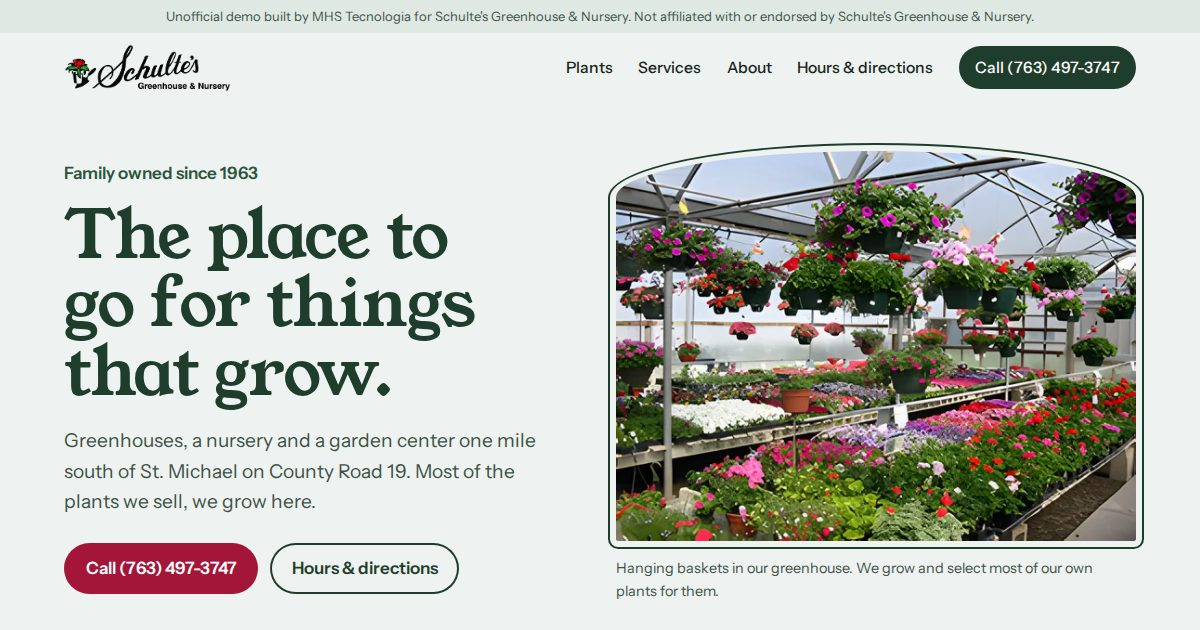
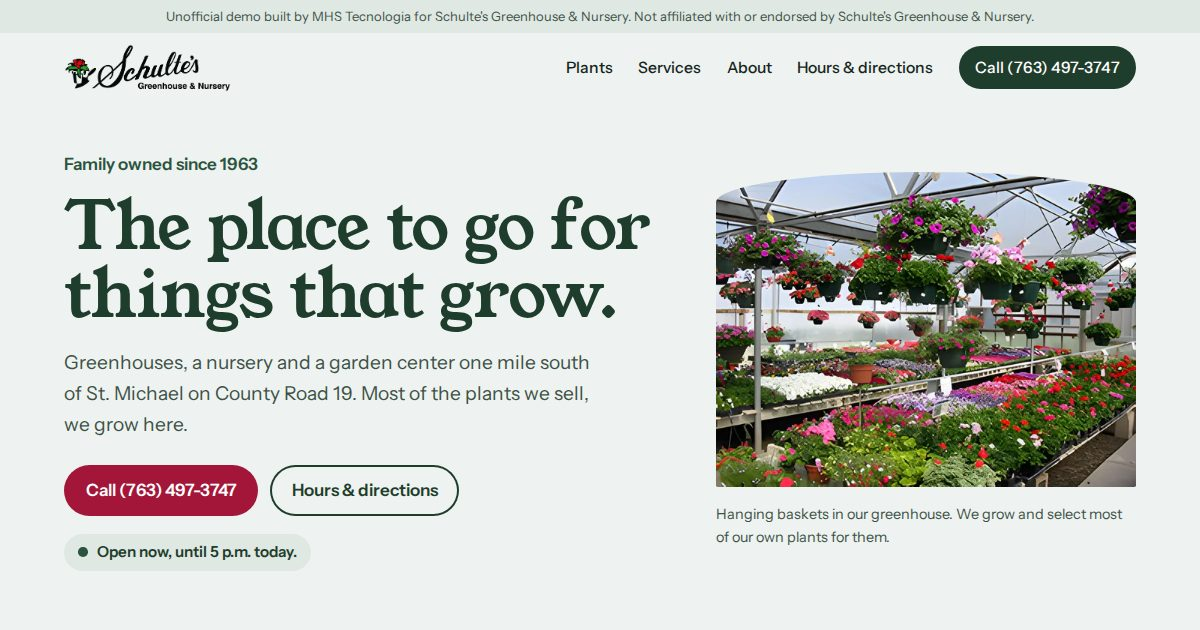
Previews: 135 ativos

diff --git a/schultes-greenhouse-nursery-st-michael-mn/index.html b/schultes-greenhouse-nursery-st-michael-mn/index.html
@@ -10,7 +10,7 @@
 <link rel="icon" type="image/png" href="favicon.png">
 <link rel="preload" as="font" type="font/woff2" href="fonts/youngserif.woff2" crossorigin>
 <link rel="preload" as="image" href="img/greenhouse-baskets.webp" imagesrcset="img/greenhouse-baskets-m.webp 560w" imagesizes="calc(100vw - 32px)" media="(max-width: 759px)" fetchpriority="high">
-<link rel="preload" as="image" href="img/greenhouse-baskets.webp" imagesrcset="img/greenhouse-baskets.webp 560w" imagesizes="520px" media="(min-width: 760px)" fetchpriority="high">
+<link rel="preload" as="image" href="img/greenhouse-baskets.webp" imagesrcset="img/greenhouse-baskets.webp 560w" imagesizes="420px" media="(min-width: 760px)" fetchpriority="high">
 <style>@font-face{font-family:"Young Serif";font-weight:400;font-display:swap;src:url(fonts/youngserif.woff2) format("woff2")}
 @font-face{font-family:"Instrument Sans";font-weight:400 700;font-stretch:75% 100%;font-display:swap;src:url(fonts/instrumentsans.woff2) format("woff2")}
 /* Frosted greenhouse glazing, the spruce green of their script logo, the rose in its pot, and sedum yellow for "today". */
@@ -58,11 +58,14 @@ h3{font-size:1.3rem}
 
 /* hero: the hoop-house arch around their greenhouse */
 .hero{padding:clamp(1.5rem,4vw,3.5rem) 0 clamp(2.5rem,5vw,4.5rem)}
-.hero-in{max-width:var(--max);margin:0 auto;padding:0 var(--pad);display:grid;grid-template-columns:1fr 520px;gap:clamp(2rem,5vw,4.5rem);align-items:center}
+.hero-in{max-width:var(--max);margin:0 auto;padding:0 var(--pad);display:grid;grid-template-columns:1fr 420px;gap:clamp(2rem,5vw,4.5rem);align-items:center}
 .since{color:var(--spruce-2);font-weight:600;margin-bottom:.9rem}
 .hero h1{font-size:clamp(2.5rem,5.6vw,4.6rem);line-height:1.02;letter-spacing:-.015em;color:var(--spruce)}
 .lede{font-size:clamp(1.08rem,1.6vw,1.25rem);color:var(--soft);margin-top:1.1rem;max-width:34rem}
-.hoop img,.ph-head img{border-radius:999px 999px .5rem .5rem/ 46% 46% .5rem .5rem;outline:2px solid var(--spruce);outline-offset:6px;width:100%}
+.hoop img,.ph-head img{border-radius:999px 999px .5rem .5rem/ 46% 46% .5rem .5rem;width:100%}
+.chip{display:inline-flex;align-items:center;gap:.55rem;margin-top:1.1rem;padding:.4rem .9rem;border-radius:2rem;background:var(--mist);color:var(--spruce);font-weight:600;font-size:.95rem}
+.chip::before{content:"";width:.6rem;height:.6rem;border-radius:50%;background:var(--spruce-2)}
+.chip[hidden]{display:none}
 .hoop figcaption{font-size:.9rem;color:var(--soft);margin-top:1rem;max-width:30rem}
 
 /* the year: their seasonal hours as a calendar */
@@ -70,18 +73,18 @@ h3{font-size:1.3rem}
 .year-sec h2{color:#fff}
 .year-grid{display:grid;grid-template-columns:minmax(0,.85fr) minmax(0,1.15fr);grid-template-areas:"intro table" "seas table";column-gap:clamp(2rem,5vw,4.5rem);align-items:start}
 .year-intro{grid-area:intro}.year{grid-area:table}.year-grid>.seasons{grid-area:seas}
-.year-intro>p{margin-top:1rem;max-width:30rem;color:#cfdcd4}
+.year-intro>p{margin-top:1rem;max-width:30rem;color:#cfdcd4;font-size:1.0625rem}
 .year-sec .btn{background:var(--sedum);color:var(--ink)}
 .year-sec .btn:hover{background:#f0d35d}
 .seasons{display:grid;grid-template-columns:1fr 1fr;gap:1.25rem 1.75rem;margin-top:2rem}
 .seasons dt{font-family:"Young Serif",Georgia,serif;font-size:1.2rem;color:#fff}
-.seasons dd{font-size:.95rem;color:#cfdcd4;margin-top:.25rem}
+.seasons dd{font-size:1rem;color:#cfdcd4;margin-top:.25rem}
 .status{font-family:"Young Serif",Georgia,serif;font-size:clamp(1.25rem,2vw,1.55rem);color:#fff;display:flex;gap:.65rem;align-items:baseline;margin-bottom:1.1rem}
 .status::before{content:"";flex:none;width:.7rem;height:.7rem;border-radius:50%;background:var(--sedum);transform:translateY(-.1rem)}
 .hours{width:100%;border-collapse:separate;border-spacing:4px;table-layout:fixed;font-variant-numeric:tabular-nums}
-.hours thead th{font-weight:600;font-size:.85rem;color:#cfdcd4;padding:.2rem 0;text-align:center}
+.hours thead th{font-weight:600;font-size:.95rem;color:#cfdcd4;padding:.2rem 0;text-align:center}
 .hours abbr{text-decoration:none}
-.hours tbody th{text-align:left;font-weight:500;font-size:.92rem;line-height:1.2;padding:0 .5rem 0 0;width:11rem;color:#e8f0eb}
+.hours tbody th{text-align:left;font-weight:500;font-size:.95rem;line-height:1.2;padding:0 .5rem 0 0;width:11rem;color:#e8f0eb}
 .hours thead td{width:11rem}
 .hours td{height:2.6rem;border-radius:.3rem;text-align:center;font-size:.85rem;font-weight:600}
 .hours td.on{background:#d8e6dd;color:var(--spruce)}
@@ -90,7 +93,7 @@ h3{font-size:1.3rem}
 .hours tr.now th{color:var(--sedum);font-weight:700}
 .hours tr.now td.on{background:#fff}
 .hours tr.now td.today{background:var(--sedum);color:var(--ink);box-shadow:0 0 0 2px #fff}
-.fine{font-size:.85rem;color:#b9cbc0;margin-top:.9rem}
+.fine{font-size:.95rem;color:#b9cbc0;margin-top:.9rem}
 @media (prefers-reduced-motion:no-preference){
   .hours tr.now td.on{animation:grow .5s cubic-bezier(.2,.7,.3,1) both;animation-delay:calc(var(--i) * 70ms + .2s)}
   @keyframes grow{from{transform:scaleY(.2);opacity:0}to{transform:none;opacity:1}}
@@ -185,10 +188,9 @@ h3{font-size:1.3rem}
   .lede{margin-top:.8rem}
   .ctas{margin-top:1.2rem}
   .ctas .btn{flex:1 1 auto}
-  .hoop img,.ph-head img{outline-offset:4px}
   .seasons{grid-template-columns:1fr}
   .hours{border-spacing:3px}
-  .hours tbody th,.hours thead td{width:6.6rem;font-size:.82rem}
+  .hours tbody th,.hours thead td{width:6.8rem;font-size:.95rem}
   .hours td{font-size:.74rem;height:2.4rem}
   .tagged{grid-template-columns:1fr}
   .tagged>img{height:17rem}
@@ -231,6 +233,7 @@ h3{font-size:1.3rem}
         <a class="btn" href="tel:+17634973747">Call (763) 497-3747</a>
         <a class="btn ghost" href="visit.html">Hours &amp; directions</a>
       </div>
+      <p class="chip" data-status hidden></p>
     </div>
     <figure class="hoop">
       <picture>
@@ -249,7 +252,7 @@ h3{font-size:1.3rem}
       <p>We close for January and February and open again in March. From late April through September we're open seven days a week.</p>
     </div>
     <div class="year">
-  <p class="status" id="status" aria-live="polite">Hours change with the season. Find this month below.</p>
+  <p class="status" data-status>Hours change with the season. Find this month below.</p>
   <table class="hours">
     <caption class="sr">Hours of operation by season, Monday to Sunday</caption>
     <thead><tr><td></td><th scope="col"><abbr title="Monday">Mon</abbr></th><th scope="col"><abbr title="Tuesday">Tue</abbr></th><th scope="col"><abbr title="Wednesday">Wed</abbr></th><th scope="col"><abbr title="Thursday">Thu</abbr></th><th scope="col"><abbr title="Friday">Fri</abbr></th><th scope="col"><abbr title="Saturday">Sat</abbr></th><th scope="col"><abbr title="Sunday">Sun</abbr></th></tr></thead>
@@ -270,7 +273,7 @@ h3{font-size:1.3rem}
   <div class="wrap">
     <div class="grown-head">
       <h2 id="grown-h">Started from cuttings, right here.</h2>
-      <p>Most of our nursery stock is started from small cuttings, rooted and grown to saleable size at the nursery. A few of our plants you won't find anywhere else, because we developed them.</p>
+      <p>Most of our nursery stock is started from small cuttings, rooted and grown to saleable size at the nursery. Two plants on our list were developed here.</p>
     </div>
     <div class="tags">
       <article class="tagged">
@@ -347,7 +350,7 @@ new IntersectionObserver(function(e){b.classList.toggle('show',!e[0].isIntersect
 </script>
 <script>
 (function(){
-  var el=document.getElementById('status'); if(!el) return;
+  var els=document.querySelectorAll('[data-status]');
   // Their published hours. [open,close] in 24h per weekday Mon..Sun.
   var A=[9,17],B=[8,18],C=[8,19],S=[8,17],U=[10,16],N=null;
   var P=[[N,N,N,N,N,N,N],[A,A,A,A,A,A,N],[B,B,B,B,B,S,N],[C,C,C,C,C,S,U],[C,C,C,C,C,S,U],[B,B,B,B,B,S,U],[N,N,A,A,A,A,N]];
@@ -369,7 +372,7 @@ new IntersectionObserver(function(e){b.classList.toggle('show',!e[0].isIntersect
         msg=(p==0?'Closed for the winter. ':'Closed right now. ')+'Opens '+when+' at '+h12(q[0])+'.'; break; }
     }
   }
-  if(msg) el.textContent=msg;
+  if(msg) els.forEach(function(e){e.textContent=msg;e.hidden=false;});
 })();
 </script>
 </body>

diff --git a/schultes-greenhouse-nursery-st-michael-mn/visit.html b/schultes-greenhouse-nursery-st-michael-mn/visit.html
@@ -56,11 +56,14 @@ h3{font-size:1.3rem}
 
 /* hero: the hoop-house arch around their greenhouse */
 .hero{padding:clamp(1.5rem,4vw,3.5rem) 0 clamp(2.5rem,5vw,4.5rem)}
-.hero-in{max-width:var(--max);margin:0 auto;padding:0 var(--pad);display:grid;grid-template-columns:1fr 520px;gap:clamp(2rem,5vw,4.5rem);align-items:center}
+.hero-in{max-width:var(--max);margin:0 auto;padding:0 var(--pad);display:grid;grid-template-columns:1fr 420px;gap:clamp(2rem,5vw,4.5rem);align-items:center}
 .since{color:var(--spruce-2);font-weight:600;margin-bottom:.9rem}
 .hero h1{font-size:clamp(2.5rem,5.6vw,4.6rem);line-height:1.02;letter-spacing:-.015em;color:var(--spruce)}
 .lede{font-size:clamp(1.08rem,1.6vw,1.25rem);color:var(--soft);margin-top:1.1rem;max-width:34rem}
-.hoop img,.ph-head img{border-radius:999px 999px .5rem .5rem/ 46% 46% .5rem .5rem;outline:2px solid var(--spruce);outline-offset:6px;width:100%}
+.hoop img,.ph-head img{border-radius:999px 999px .5rem .5rem/ 46% 46% .5rem .5rem;width:100%}
+.chip{display:inline-flex;align-items:center;gap:.55rem;margin-top:1.1rem;padding:.4rem .9rem;border-radius:2rem;background:var(--mist);color:var(--spruce);font-weight:600;font-size:.95rem}
+.chip::before{content:"";width:.6rem;height:.6rem;border-radius:50%;background:var(--spruce-2)}
+.chip[hidden]{display:none}
 .hoop figcaption{font-size:.9rem;color:var(--soft);margin-top:1rem;max-width:30rem}
 
 /* the year: their seasonal hours as a calendar */
@@ -68,18 +71,18 @@ h3{font-size:1.3rem}
 .year-sec h2{color:#fff}
 .year-grid{display:grid;grid-template-columns:minmax(0,.85fr) minmax(0,1.15fr);grid-template-areas:"intro table" "seas table";column-gap:clamp(2rem,5vw,4.5rem);align-items:start}
 .year-intro{grid-area:intro}.year{grid-area:table}.year-grid>.seasons{grid-area:seas}
-.year-intro>p{margin-top:1rem;max-width:30rem;color:#cfdcd4}
+.year-intro>p{margin-top:1rem;max-width:30rem;color:#cfdcd4;font-size:1.0625rem}
 .year-sec .btn{background:var(--sedum);color:var(--ink)}
 .year-sec .btn:hover{background:#f0d35d}
 .seasons{display:grid;grid-template-columns:1fr 1fr;gap:1.25rem 1.75rem;margin-top:2rem}
 .seasons dt{font-family:"Young Serif",Georgia,serif;font-size:1.2rem;color:#fff}
-.seasons dd{font-size:.95rem;color:#cfdcd4;margin-top:.25rem}
+.seasons dd{font-size:1rem;color:#cfdcd4;margin-top:.25rem}
 .status{font-family:"Young Serif",Georgia,serif;font-size:clamp(1.25rem,2vw,1.55rem);color:#fff;display:flex;gap:.65rem;align-items:baseline;margin-bottom:1.1rem}
 .status::before{content:"";flex:none;width:.7rem;height:.7rem;border-radius:50%;background:var(--sedum);transform:translateY(-.1rem)}
 .hours{width:100%;border-collapse:separate;border-spacing:4px;table-layout:fixed;font-variant-numeric:tabular-nums}
-.hours thead th{font-weight:600;font-size:.85rem;color:#cfdcd4;padding:.2rem 0;text-align:center}
+.hours thead th{font-weight:600;font-size:.95rem;color:#cfdcd4;padding:.2rem 0;text-align:center}
 .hours abbr{text-decoration:none}
-.hours tbody th{text-align:left;font-weight:500;font-size:.92rem;line-height:1.2;padding:0 .5rem 0 0;width:11rem;color:#e8f0eb}
+.hours tbody th{text-align:left;font-weight:500;font-size:.95rem;line-height:1.2;padding:0 .5rem 0 0;width:11rem;color:#e8f0eb}
 .hours thead td{width:11rem}
 .hours td{height:2.6rem;border-radius:.3rem;text-align:center;font-size:.85rem;font-weight:600}
 .hours td.on{background:#d8e6dd;color:var(--spruce)}
@@ -88,7 +91,7 @@ h3{font-size:1.3rem}
 .hours tr.now th{color:var(--sedum);font-weight:700}
 .hours tr.now td.on{background:#fff}
 .hours tr.now td.today{background:var(--sedum);color:var(--ink);box-shadow:0 0 0 2px #fff}
-.fine{font-size:.85rem;color:#b9cbc0;margin-top:.9rem}
+.fine{font-size:.95rem;color:#b9cbc0;margin-top:.9rem}
 @media (prefers-reduced-motion:no-preference){
   .hours tr.now td.on{animation:grow .5s cubic-bezier(.2,.7,.3,1) both;animation-delay:calc(var(--i) * 70ms + .2s)}
   @keyframes grow{from{transform:scaleY(.2);opacity:0}to{transform:none;opacity:1}}
@@ -183,10 +186,9 @@ h3{font-size:1.3rem}
   .lede{margin-top:.8rem}
   .ctas{margin-top:1.2rem}
   .ctas .btn{flex:1 1 auto}
-  .hoop img,.ph-head img{outline-offset:4px}
   .seasons{grid-template-columns:1fr}
   .hours{border-spacing:3px}
-  .hours tbody th,.hours thead td{width:6.6rem;font-size:.82rem}
+  .hours tbody th,.hours thead td{width:6.8rem;font-size:.95rem}
   .hours td{font-size:.74rem;height:2.4rem}
   .tagged{grid-template-columns:1fr}
   .tagged>img{height:17rem}
@@ -225,7 +227,7 @@ h3{font-size:1.3rem}
       <div class="ctas"><a class="btn" href="tel:+17634973747">Call (763) 497-3747</a></div>
     </div>
     <div class="year">
-  <p class="status" id="status" aria-live="polite">Hours change with the season. Find this month below.</p>
+  <p class="status" data-status>Hours change with the season. Find this month below.</p>
   <table class="hours">
     <caption class="sr">Hours of operation by season, Monday to Sunday</caption>
     <thead><tr><td></td><th scope="col"><abbr title="Monday">Mon</abbr></th><th scope="col"><abbr title="Tuesday">Tue</abbr></th><th scope="col"><abbr title="Wednesday">Wed</abbr></th><th scope="col"><abbr title="Thursday">Thu</abbr></th><th scope="col"><abbr title="Friday">Fri</abbr></th><th scope="col"><abbr title="Saturday">Sat</abbr></th><th scope="col"><abbr title="Sunday">Sun</abbr></th></tr></thead>
@@ -286,7 +288,7 @@ new IntersectionObserver(function(e){b.classList.toggle('show',!e[0].isIntersect
 </script>
 <script>
 (function(){
-  var el=document.getElementById('status'); if(!el) return;
+  var els=document.querySelectorAll('[data-status]');
   // Their published hours. [open,close] in 24h per weekday Mon..Sun.
   var A=[9,17],B=[8,18],C=[8,19],S=[8,17],U=[10,16],N=null;
   var P=[[N,N,N,N,N,N,N],[A,A,A,A,A,A,N],[B,B,B,B,B,S,N],[C,C,C,C,C,S,U],[C,C,C,C,C,S,U],[B,B,B,B,B,S,U],[N,N,A,A,A,A,N]];
@@ -308,7 +310,7 @@ new IntersectionObserver(function(e){b.classList.toggle('show',!e[0].isIntersect
         msg=(p==0?'Closed for the winter. ':'Closed right now. ')+'Opens '+when+' at '+h12(q[0])+'.'; break; }
     }
   }
-  if(msg) el.textContent=msg;
+  if(msg) els.forEach(function(e){e.textContent=msg;e.hidden=false;});
 })();
 </script>
 </body>

diff --git a/schultes-greenhouse-nursery-st-michael-mn/services.html b/schultes-greenhouse-nursery-st-michael-mn/services.html
@@ -56,11 +56,14 @@ h3{font-size:1.3rem}
 
 /* hero: the hoop-house arch around their greenhouse */
 .hero{padding:clamp(1.5rem,4vw,3.5rem) 0 clamp(2.5rem,5vw,4.5rem)}
-.hero-in{max-width:var(--max);margin:0 auto;padding:0 var(--pad);display:grid;grid-template-columns:1fr 520px;gap:clamp(2rem,5vw,4.5rem);align-items:center}
+.hero-in{max-width:var(--max);margin:0 auto;padding:0 var(--pad);display:grid;grid-template-columns:1fr 420px;gap:clamp(2rem,5vw,4.5rem);align-items:center}
 .since{color:var(--spruce-2);font-weight:600;margin-bottom:.9rem}
 .hero h1{font-size:clamp(2.5rem,5.6vw,4.6rem);line-height:1.02;letter-spacing:-.015em;color:var(--spruce)}
 .lede{font-size:clamp(1.08rem,1.6vw,1.25rem);color:var(--soft);margin-top:1.1rem;max-width:34rem}
-.hoop img,.ph-head img{border-radius:999px 999px .5rem .5rem/ 46% 46% .5rem .5rem;outline:2px solid var(--spruce);outline-offset:6px;width:100%}
+.hoop img,.ph-head img{border-radius:999px 999px .5rem .5rem/ 46% 46% .5rem .5rem;width:100%}
+.chip{display:inline-flex;align-items:center;gap:.55rem;margin-top:1.1rem;padding:.4rem .9rem;border-radius:2rem;background:var(--mist);color:var(--spruce);font-weight:600;font-size:.95rem}
+.chip::before{content:"";width:.6rem;height:.6rem;border-radius:50%;background:var(--spruce-2)}
+.chip[hidden]{display:none}
 .hoop figcaption{font-size:.9rem;color:var(--soft);margin-top:1rem;max-width:30rem}
 
 /* the year: their seasonal hours as a calendar */
@@ -68,18 +71,18 @@ h3{font-size:1.3rem}
 .year-sec h2{color:#fff}
 .year-grid{display:grid;grid-template-columns:minmax(0,.85fr) minmax(0,1.15fr);grid-template-areas:"intro table" "seas table";column-gap:clamp(2rem,5vw,4.5rem);align-items:start}
 .year-intro{grid-area:intro}.year{grid-area:table}.year-grid>.seasons{grid-area:seas}
-.year-intro>p{margin-top:1rem;max-width:30rem;color:#cfdcd4}
+.year-intro>p{margin-top:1rem;max-width:30rem;color:#cfdcd4;font-size:1.0625rem}
 .year-sec .btn{background:var(--sedum);color:var(--ink)}
 .year-sec .btn:hover{background:#f0d35d}
 .seasons{display:grid;grid-template-columns:1fr 1fr;gap:1.25rem 1.75rem;margin-top:2rem}
 .seasons dt{font-family:"Young Serif",Georgia,serif;font-size:1.2rem;color:#fff}
-.seasons dd{font-size:.95rem;color:#cfdcd4;margin-top:.25rem}
+.seasons dd{font-size:1rem;color:#cfdcd4;margin-top:.25rem}
 .status{font-family:"Young Serif",Georgia,serif;font-size:clamp(1.25rem,2vw,1.55rem);color:#fff;display:flex;gap:.65rem;align-items:baseline;margin-bottom:1.1rem}
 .status::before{content:"";flex:none;width:.7rem;height:.7rem;border-radius:50%;background:var(--sedum);transform:translateY(-.1rem)}
 .hours{width:100%;border-collapse:separate;border-spacing:4px;table-layout:fixed;font-variant-numeric:tabular-nums}
-.hours thead th{font-weight:600;font-size:.85rem;color:#cfdcd4;padding:.2rem 0;text-align:center}
+.hours thead th{font-weight:600;font-size:.95rem;color:#cfdcd4;padding:.2rem 0;text-align:center}
 .hours abbr{text-decoration:none}
-.hours tbody th{text-align:left;font-weight:500;font-size:.92rem;line-height:1.2;padding:0 .5rem 0 0;width:11rem;color:#e8f0eb}
+.hours tbody th{text-align:left;font-weight:500;font-size:.95rem;line-height:1.2;padding:0 .5rem 0 0;width:11rem;color:#e8f0eb}
 .hours thead td{width:11rem}
 .hours td{height:2.6rem;border-radius:.3rem;text-align:center;font-size:.85rem;font-weight:600}
 .hours td.on{background:#d8e6dd;color:var(--spruce)}
@@ -88,7 +91,7 @@ h3{font-size:1.3rem}
 .hours tr.now th{color:var(--sedum);font-weight:700}
 .hours tr.now td.on{background:#fff}
 .hours tr.now td.today{background:var(--sedum);color:var(--ink);box-shadow:0 0 0 2px #fff}
-.fine{font-size:.85rem;color:#b9cbc0;margin-top:.9rem}
+.fine{font-size:.95rem;color:#b9cbc0;margin-top:.9rem}
 @media (prefers-reduced-motion:no-preference){
   .hours tr.now td.on{animation:grow .5s cubic-bezier(.2,.7,.3,1) both;animation-delay:calc(var(--i) * 70ms + .2s)}
   @keyframes grow{from{transform:scaleY(.2);opacity:0}to{transform:none;opacity:1}}
@@ -183,10 +186,9 @@ h3{font-size:1.3rem}
   .lede{margin-top:.8rem}
   .ctas{margin-top:1.2rem}
   .ctas .btn{flex:1 1 auto}
-  .hoop img,.ph-head img{outline-offset:4px}
   .seasons{grid-template-columns:1fr}
   .hours{border-spacing:3px}
-  .hours tbody th,.hours thead td{width:6.6rem;font-size:.82rem}
+  .hours tbody th,.hours thead td{width:6.8rem;font-size:.95rem}
   .hours td{font-size:.74rem;height:2.4rem}
   .tagged{grid-template-columns:1fr}
   .tagged>img{height:17rem}
@@ -242,8 +244,8 @@ h3{font-size:1.3rem}
       </div>
     </div>
     <div class="pair">
-      <figure class="shot"><img src="img/garden-pond.webp" srcset="img/garden-pond-sm.webp 310w, img/garden-pond.webp 620w" sizes="(max-width: 759px) calc(100vw - 32px), 516px" width="620" height="466" alt="A small pond with boulders, a bubbling stone and pink flowers" loading="lazy" decoding="async"><figcaption>Photo from our landscaping page.</figcaption></figure>
-      <figure class="shot"><img src="img/garden-iris.webp" srcset="img/garden-iris-sm.webp 256w, img/garden-iris.webp 512w" sizes="(max-width: 759px) calc(100vw - 32px), 516px" width="512" height="384" alt="Blue iris and daylilies along a stone-edged bed" loading="lazy" decoding="async"><figcaption>Photo from our landscaping page.</figcaption></figure>
+      <figure class="shot"><img src="img/garden-pond.webp" srcset="img/garden-pond-sm.webp 310w, img/garden-pond.webp 620w" sizes="(max-width: 759px) calc(100vw - 32px), 516px" width="620" height="466" alt="A small pond with boulders, a bubbling stone and pink flowers" loading="lazy" decoding="async"><figcaption>Garden ideas from our landscaping page.</figcaption></figure>
+      <figure class="shot"><img src="img/garden-iris.webp" srcset="img/garden-iris-sm.webp 256w, img/garden-iris.webp 512w" sizes="(max-width: 759px) calc(100vw - 32px), 516px" width="512" height="384" alt="Blue iris and daylilies along a stone-edged bed" loading="lazy" decoding="async"><figcaption>Garden ideas from our landscaping page.</figcaption></figure>
     </div>
   </div>
 </section>

diff --git a/schultes-greenhouse-nursery-st-michael-mn/about.html b/schultes-greenhouse-nursery-st-michael-mn/about.html
@@ -56,11 +56,14 @@ h3{font-size:1.3rem}
 
 /* hero: the hoop-house arch around their greenhouse */
 .hero{padding:clamp(1.5rem,4vw,3.5rem) 0 clamp(2.5rem,5vw,4.5rem)}
-.hero-in{max-width:var(--max);margin:0 auto;padding:0 var(--pad);display:grid;grid-template-columns:1fr 520px;gap:clamp(2rem,5vw,4.5rem);align-items:center}
+.hero-in{max-width:var(--max);margin:0 auto;padding:0 var(--pad);display:grid;grid-template-columns:1fr 420px;gap:clamp(2rem,5vw,4.5rem);align-items:center}
 .since{color:var(--spruce-2);font-weight:600;margin-bottom:.9rem}
 .hero h1{font-size:clamp(2.5rem,5.6vw,4.6rem);line-height:1.02;letter-spacing:-.015em;color:var(--spruce)}
 .lede{font-size:clamp(1.08rem,1.6vw,1.25rem);color:var(--soft);margin-top:1.1rem;max-width:34rem}
-.hoop img,.ph-head img{border-radius:999px 999px .5rem .5rem/ 46% 46% .5rem .5rem;outline:2px solid var(--spruce);outline-offset:6px;width:100%}
+.hoop img,.ph-head img{border-radius:999px 999px .5rem .5rem/ 46% 46% .5rem .5rem;width:100%}
+.chip{display:inline-flex;align-items:center;gap:.55rem;margin-top:1.1rem;padding:.4rem .9rem;border-radius:2rem;background:var(--mist);color:var(--spruce);font-weight:600;font-size:.95rem}
+.chip::before{content:"";width:.6rem;height:.6rem;border-radius:50%;background:var(--spruce-2)}
+.chip[hidden]{display:none}
 .hoop figcaption{font-size:.9rem;color:var(--soft);margin-top:1rem;max-width:30rem}
 
 /* the year: their seasonal hours as a calendar */
@@ -68,18 +71,18 @@ h3{font-size:1.3rem}
 .year-sec h2{color:#fff}
 .year-grid{display:grid;grid-template-columns:minmax(0,.85fr) minmax(0,1.15fr);grid-template-areas:"intro table" "seas table";column-gap:clamp(2rem,5vw,4.5rem);align-items:start}
 .year-intro{grid-area:intro}.year{grid-area:table}.year-grid>.seasons{grid-area:seas}
-.year-intro>p{margin-top:1rem;max-width:30rem;color:#cfdcd4}
+.year-intro>p{margin-top:1rem;max-width:30rem;color:#cfdcd4;font-size:1.0625rem}
 .year-sec .btn{background:var(--sedum);color:var(--ink)}
 .year-sec .btn:hover{background:#f0d35d}
 .seasons{display:grid;grid-template-columns:1fr 1fr;gap:1.25rem 1.75rem;margin-top:2rem}
 .seasons dt{font-family:"Young Serif",Georgia,serif;font-size:1.2rem;color:#fff}
-.seasons dd{font-size:.95rem;color:#cfdcd4;margin-top:.25rem}
+.seasons dd{font-size:1rem;color:#cfdcd4;margin-top:.25rem}
 .status{font-family:"Young Serif",Georgia,serif;font-size:clamp(1.25rem,2vw,1.55rem);color:#fff;display:flex;gap:.65rem;align-items:baseline;margin-bottom:1.1rem}
 .status::before{content:"";flex:none;width:.7rem;height:.7rem;border-radius:50%;background:var(--sedum);transform:translateY(-.1rem)}
 .hours{width:100%;border-collapse:separate;border-spacing:4px;table-layout:fixed;font-variant-numeric:tabular-nums}
-.hours thead th{font-weight:600;font-size:.85rem;color:#cfdcd4;padding:.2rem 0;text-align:center}
+.hours thead th{font-weight:600;font-size:.95rem;color:#cfdcd4;padding:.2rem 0;text-align:center}
 .hours abbr{text-decoration:none}
-.hours tbody th{text-align:left;font-weight:500;font-size:.92rem;line-height:1.2;padding:0 .5rem 0 0;width:11rem;color:#e8f0eb}
+.hours tbody th{text-align:left;font-weight:500;font-size:.95rem;line-height:1.2;padding:0 .5rem 0 0;width:11rem;color:#e8f0eb}
 .hours thead td{width:11rem}
 .hours td{height:2.6rem;border-radius:.3rem;text-align:center;font-size:.85rem;font-weight:600}
 .hours td.on{background:#d8e6dd;color:var(--spruce)}
@@ -88,7 +91,7 @@ h3{font-size:1.3rem}
 .hours tr.now th{color:var(--sedum);font-weight:700}
 .hours tr.now td.on{background:#fff}
 .hours tr.now td.today{background:var(--sedum);color:var(--ink);box-shadow:0 0 0 2px #fff}
-.fine{font-size:.85rem;color:#b9cbc0;margin-top:.9rem}
+.fine{font-size:.95rem;color:#b9cbc0;margin-top:.9rem}
 @media (prefers-reduced-motion:no-preference){
   .hours tr.now td.on{animation:grow .5s cubic-bezier(.2,.7,.3,1) both;animation-delay:calc(var(--i) * 70ms + .2s)}
   @keyframes grow{from{transform:scaleY(.2);opacity:0}to{transform:none;opacity:1}}
@@ -183,10 +186,9 @@ h3{font-size:1.3rem}
   .lede{margin-top:.8rem}
   .ctas{margin-top:1.2rem}
   .ctas .btn{flex:1 1 auto}
-  .hoop img,.ph-head img{outline-offset:4px}
   .seasons{grid-template-columns:1fr}
   .hours{border-spacing:3px}
-  .hours tbody th,.hours thead td{width:6.6rem;font-size:.82rem}
+  .hours tbody th,.hours thead td{width:6.8rem;font-size:.95rem}
   .hours td{font-size:.74rem;height:2.4rem}
   .tagged{grid-template-columns:1fr}
   .tagged>img{height:17rem}

diff --git a/schultes-greenhouse-nursery-st-michael-mn/plants.html b/schultes-greenhouse-nursery-st-michael-mn/plants.html
@@ -56,11 +56,14 @@ h3{font-size:1.3rem}
 
 /* hero: the hoop-house arch around their greenhouse */
 .hero{padding:clamp(1.5rem,4vw,3.5rem) 0 clamp(2.5rem,5vw,4.5rem)}
-.hero-in{max-width:var(--max);margin:0 auto;padding:0 var(--pad);display:grid;grid-template-columns:1fr 520px;gap:clamp(2rem,5vw,4.5rem);align-items:center}
+.hero-in{max-width:var(--max);margin:0 auto;padding:0 var(--pad);display:grid;grid-template-columns:1fr 420px;gap:clamp(2rem,5vw,4.5rem);align-items:center}
 .since{color:var(--spruce-2);font-weight:600;margin-bottom:.9rem}
 .hero h1{font-size:clamp(2.5rem,5.6vw,4.6rem);line-height:1.02;letter-spacing:-.015em;color:var(--spruce)}
 .lede{font-size:clamp(1.08rem,1.6vw,1.25rem);color:var(--soft);margin-top:1.1rem;max-width:34rem}
-.hoop img,.ph-head img{border-radius:999px 999px .5rem .5rem/ 46% 46% .5rem .5rem;outline:2px solid var(--spruce);outline-offset:6px;width:100%}
+.hoop img,.ph-head img{border-radius:999px 999px .5rem .5rem/ 46% 46% .5rem .5rem;width:100%}
+.chip{display:inline-flex;align-items:center;gap:.55rem;margin-top:1.1rem;padding:.4rem .9rem;border-radius:2rem;background:var(--mist);color:var(--spruce);font-weight:600;font-size:.95rem}
+.chip::before{content:"";width:.6rem;height:.6rem;border-radius:50%;background:var(--spruce-2)}
+.chip[hidden]{display:none}
 .hoop figcaption{font-size:.9rem;color:var(--soft);margin-top:1rem;max-width:30rem}
 
 /* the year: their seasonal hours as a calendar */
@@ -68,18 +71,18 @@ h3{font-size:1.3rem}
 .year-sec h2{color:#fff}
 .year-grid{display:grid;grid-template-columns:minmax(0,.85fr) minmax(0,1.15fr);grid-template-areas:"intro table" "seas table";column-gap:clamp(2rem,5vw,4.5rem);align-items:start}
 .year-intro{grid-area:intro}.year{grid-area:table}.year-grid>.seasons{grid-area:seas}
-.year-intro>p{margin-top:1rem;max-width:30rem;color:#cfdcd4}
+.year-intro>p{margin-top:1rem;max-width:30rem;color:#cfdcd4;font-size:1.0625rem}
 .year-sec .btn{background:var(--sedum);color:var(--ink)}
 .year-sec .btn:hover{background:#f0d35d}
 .seasons{display:grid;grid-template-columns:1fr 1fr;gap:1.25rem 1.75rem;margin-top:2rem}
 .seasons dt{font-family:"Young Serif",Georgia,serif;font-size:1.2rem;color:#fff}
-.seasons dd{font-size:.95rem;color:#cfdcd4;margin-top:.25rem}
+.seasons dd{font-size:1rem;color:#cfdcd4;margin-top:.25rem}
 .status{font-family:"Young Serif",Georgia,serif;font-size:clamp(1.25rem,2vw,1.55rem);color:#fff;display:flex;gap:.65rem;align-items:baseline;margin-bottom:1.1rem}
 .status::before{content:"";flex:none;width:.7rem;height:.7rem;border-radius:50%;background:var(--sedum);transform:translateY(-.1rem)}
 .hours{width:100%;border-collapse:separate;border-spacing:4px;table-layout:fixed;font-variant-numeric:tabular-nums}
-.hours thead th{font-weight:600;font-size:.85rem;color:#cfdcd4;padding:.2rem 0;text-align:center}
+.hours thead th{font-weight:600;font-size:.95rem;color:#cfdcd4;padding:.2rem 0;text-align:center}
 .hours abbr{text-decoration:none}
-.hours tbody th{text-align:left;font-weight:500;font-size:.92rem;line-height:1.2;padding:0 .5rem 0 0;width:11rem;color:#e8f0eb}
+.hours tbody th{text-align:left;font-weight:500;font-size:.95rem;line-height:1.2;padding:0 .5rem 0 0;width:11rem;color:#e8f0eb}
 .hours thead td{width:11rem}
 .hours td{height:2.6rem;border-radius:.3rem;text-align:center;font-size:.85rem;font-weight:600}
 .hours td.on{background:#d8e6dd;color:var(--spruce)}
@@ -88,7 +91,7 @@ h3{font-size:1.3rem}
 .hours tr.now th{color:var(--sedum);font-weight:700}
 .hours tr.now td.on{background:#fff}
 .hours tr.now td.today{background:var(--sedum);color:var(--ink);box-shadow:0 0 0 2px #fff}
-.fine{font-size:.85rem;color:#b9cbc0;margin-top:.9rem}
+.fine{font-size:.95rem;color:#b9cbc0;margin-top:.9rem}
 @media (prefers-reduced-motion:no-preference){
   .hours tr.now td.on{animation:grow .5s cubic-bezier(.2,.7,.3,1) both;animation-delay:calc(var(--i) * 70ms + .2s)}
   @keyframes grow{from{transform:scaleY(.2);opacity:0}to{transform:none;opacity:1}}
@@ -183,10 +186,9 @@ h3{font-size:1.3rem}
   .lede{margin-top:.8rem}
   .ctas{margin-top:1.2rem}
   .ctas .btn{flex:1 1 auto}
-  .hoop img,.ph-head img{outline-offset:4px}
   .seasons{grid-template-columns:1fr}
   .hours{border-spacing:3px}
-  .hours tbody th,.hours thead td{width:6.6rem;font-size:.82rem}
+  .hours tbody th,.hours thead td{width:6.8rem;font-size:.95rem}
   .hours td{font-size:.74rem;height:2.4rem}
   .tagged{grid-template-columns:1fr}
   .tagged>img{height:17rem}
